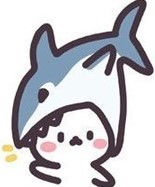
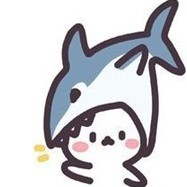
hm

diff --git a/tutori.html b/tutori.html
@@ -7,7 +7,7 @@
     <title>little DS tut | Tutorium</title>
     <meta property="og:site_name" content="little DS tut">
     <meta property="og:title" content="Tutorium">
-    <link rel="icon" type="image/png" href="%PUBLIC_URL%/images/cute__.png">
+    <link rel="icon" type="image/png" href="/images/cute__16.png">
     <link rel="stylesheet" href="stylesheet.css">
     <script type="text/javascript" src="script.js" defer></script>
 </head>
